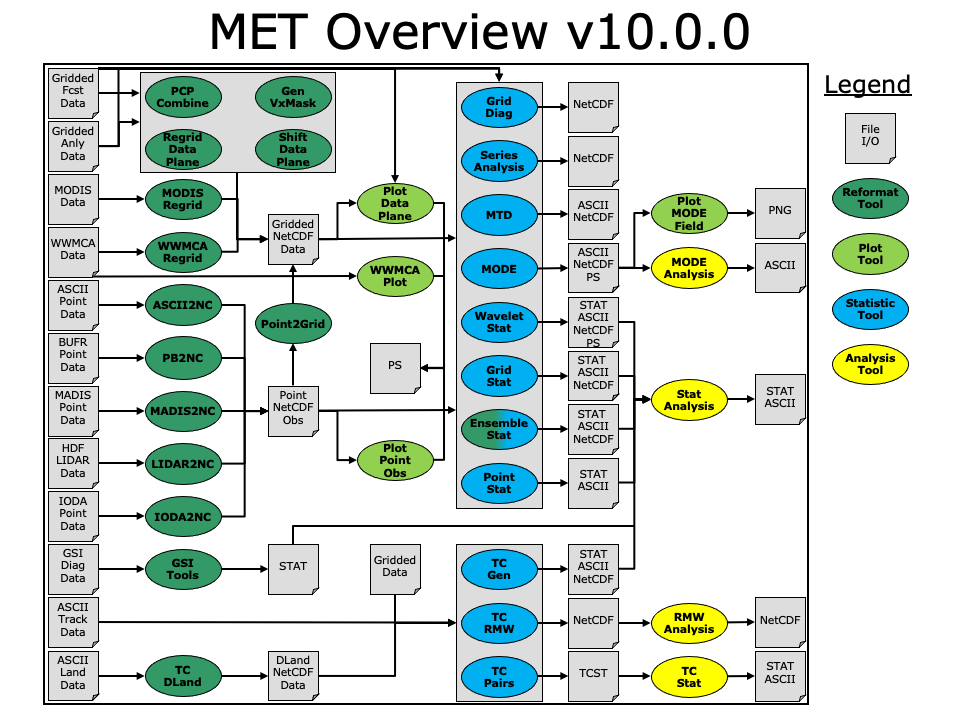
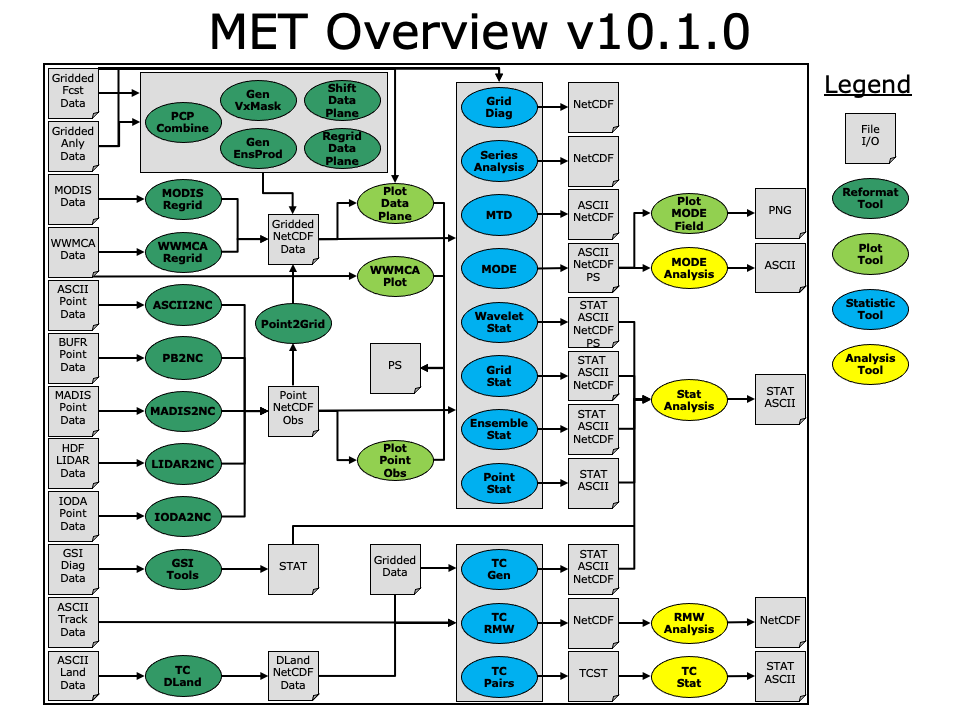
Per #2092, update the overview section to better describe the pre-processing tools and mention SonarQube. Also swap in the 10.1.0 flowchart.

diff --git a/met/docs/Users_Guide/overview.rst b/met/docs/Users_Guide/overview.rst
@@ -36,7 +36,7 @@ MET components
 
 The major components of the MET package are represented in :numref:`overview-figure`. The main stages represented are input, reformatting, plotting, intermediate output, statistical analyses, and output and aggregation/analysis. The MET-TC package functions independently of the other MET modules, as indicated in the Figure. Each of these stages is described further in later sections. For example, the input and output formats are discussed in :numref:`data_io` as well as in the sections associated with each of the statistics modules. MET input files are represented on the far left.
 
-The reformatting stage of MET consists of the Gen-Vx-Mask, PB2NC, ASCII2NC, Pcp-Combine, MADIS2NC, MODIS regrid, WWMCA Regrid, and Ensemble-Stat tools. The PB2NC tool is used to create NetCDF files from input PrepBUFR files containing point observations. Likewise, the ASCII2NC tool is used to create NetCDF files from input ASCII point observations. Many types of data from the MADIS network can be formatted for use in MET by the MADIS2NC tool. MODIS and WWMCA files are regridded and formatted into NetCDF files by their respective tools. These NetCDF files are then used in the statistical analysis step. The Gen-Vx-Mask and Pcp-Combine tools are optional. The Gen-Vx-Mask tool will create a bitmapped masking area in a variety of ways. The output mask can then be used to efficiently limit verification to the interior of a user specified region. The Pcp-Combine tool can be used to add, subtract, or derive fields across multiple time steps. Often it is run to accumulate precipitation amounts into the time interval selected by the user - if a user would like to verify over a different time interval than is included in their forecast or observational dataset. The Ensemble-Stat tool will combine many forecasts into an ensemble mean or probability forecast. Additionally, if gridded or point observations are included, ensemble verification statistics are produced.
+The reformatting stage of MET consists of several tools which perform a variety of functions. The ASCII2NC, PB2NC, MADIS2NC, LIDAR2NC, and IODA2NC tools read a variety of point observation input file formats and, optionally, derive time summaries for each observing location. They all write to a common NetCDF point observation file format which can be read by the other MET tools. The Point2Grid tool reads that common NetCDF point observation file format and interpolates the point data onto a user-specified grid. The Regrid-Data-Plane, Shift-Data-Plane, MODIS-Regrid, and WWMCA-Regrid tools read a variety of gridded input file formats and interpolate user-requested input fields to a user-defined output grid. While the MET statistics tools can interpolate many input file formats in-memory and on-the-fly, manually regridding upstream is sometimes useful. The Pcp-Combine tool adds, subtracts, or derives fields across multiple time steps. It is often run to accumulate precipitation amounts into a user-specified time interval - if a user would like to verify over a different time interval than is included in their forecast or observational dataset. The Gen-Vx-Mask tool provides a variety of methods for creating bitmapped masking areas. Those masks can then be used to efficiently limit verification to the interior of a user-specified region in the downstream statistics tools. The Gen-Ens-Prod tool derives basic ensemble products (mean, spread, probabilities) from multiple gridded input ensemble members. The GSI tools reformat binary GSI diagnostic data to be read by the Stat-Analysis tool.
 
 .. _overview-figure:
 
@@ -52,7 +52,7 @@ Sometimes it may be useful to verify a forecast against gridded fields (e.g., St
 
 Users wishing to accumulate statistics over a time, height, or other series separately for each grid location should use the Series-Analysis tool. Series-Analysis can read any gridded matched pair data produced by the other MET tools and accumulate them, keeping each spatial location separate. Maps of these statistics can be useful for diagnosing spatial differences in forecast quality. 
 
-Ensemble-Stat is a hybrid tool that provides based post-processing capability of the ensemble members as well as computing measures of ensemble characteristics.  Basic post-processing capability includes computing the ensemble mean, min, max, standard deviation, and ensemble relative frequency or probability.  These fields can then be used in other MET tools for additional evaluation.  The ensemble characteristics include computation of rank and probability integral transform (PIT) histograms, the end-points for receiver operator curve (ROC) and reliability diagrams, and ranked probabilities scores (RPS) and the continuous version (CRPS).
+Ensemble-Stat is a hybrid tool that provides based post-processing capability of the ensemble members as well as computing measures of ensemble characteristics. Basic post-processing capability includes computing the ensemble mean, min, max, standard deviation, and ensemble relative frequency or probability. These fields can then be used in other MET tools for additional evaluation. Note however that the Gen-Ens-Prod tool also performs ensemble product generation, and this functionality will be removed from Ensemble-Stat in future versions. The ensemble characteristics include computation of rank and probability integral transform (PIT) histograms, the end-points for receiver operator curve (ROC) and reliability diagrams, and ranked probabilities scores (RPS) and the continuous version (CRPS).
 
 The MODE (Method for Object-based Diagnostic Evaluation) tool also uses gridded fields as observational datasets. However, unlike the Grid-Stat tool, which applies traditional forecast verification techniques, MODE applies the object-based spatial verification technique described in :ref:`Davis et al. (2006a,b) <Davis-2006>` and :ref:`Brown et al. (2007) <Brown-2007>`. This technique was developed in response to the "double penalty" problem in forecast verification. A forecast missed by even a small distance is effectively penalized twice by standard categorical verification scores: once for missing the event and a second time for producing a false alarm of the event elsewhere. As an alternative, MODE defines objects in both the forecast and observation fields. The objects in the forecast and observation fields are then matched and compared to one another. Applying this technique also provides diagnostic verification information that is difficult or even impossible to obtain using traditional verification measures. For example, the MODE tool can provide information about errors in location, size, and intensity.
 
@@ -90,9 +90,9 @@ We welcome comments and suggestions for improvements to MET, especially informat
 
 The MET package is a "living" set of tools. Our goal is to continually enhance it and add to its capabilities. Because our time, resources, and talents are limited, we welcome contributed code for future versions of MET. These contributions may represent new verification methodologies, new analysis tools, or new plotting functions. For more information on contributing code to MET, please create a post in the `METplus GitHub Discussions Forum <https://github.com/dtcenter/METplus/discussions>`_.
 
-Fortify
-=======
+Fortify and SonarQube
+=====================
 
-Requirements from various government agencies that use MET have resulted in our code being analyzed by Fortify, a proprietary static source code analyzer owned by HP Enterprise Security Products. Fortify analyzes source code to identify for security risks, memory leaks, uninitialized variables, and other such weaknesses and bad coding practices. Fortify categorizes any issues it finds as low priority, high priority, or critical, and reports these issues back to the developers for them to address. A development cycle is thus established, with Fortify analyzing code and reporting back to the developers, who then make changes in the source code to address these issues, and hand the new code off to Fortify again for re-analysis. The goal is to drive the counts of both high priority and critical issues down to zero.
+Requirements from various government agencies that use MET have resulted in our code being analyzed by both the Fortify and SonarQube static source code analysis tools. Fortify and SonarQube analyze source code to identify for security risks, memory leaks, uninitialized variables, and other such weaknesses and bad coding practices. They categorize issue as low priority, high priority, or critical, and report these issues back to the developers for them to address. The goal is to drive the counts of both high priority and critical issues down to zero.
 
 The MET developers are pleased to report that Fortify reports zero critical issues in the MET code. Users of the MET tools who work in high security environments can rest assured about the possibility of security risks when using MET, since the quality of the code has now been vetted by unbiased third-party experts. The MET developers continue using Fortify routinely to ensure that the critical counts remain at zero and to further reduce the counts for lower priority issues.
